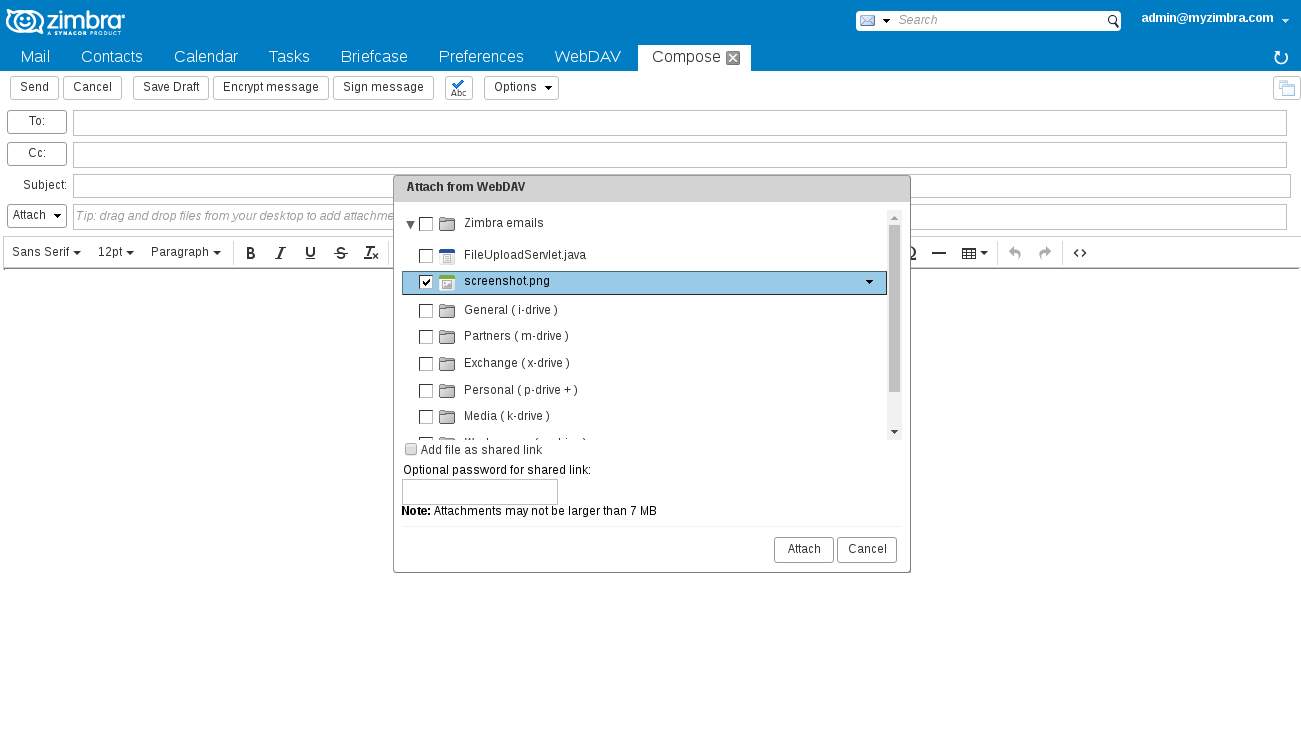
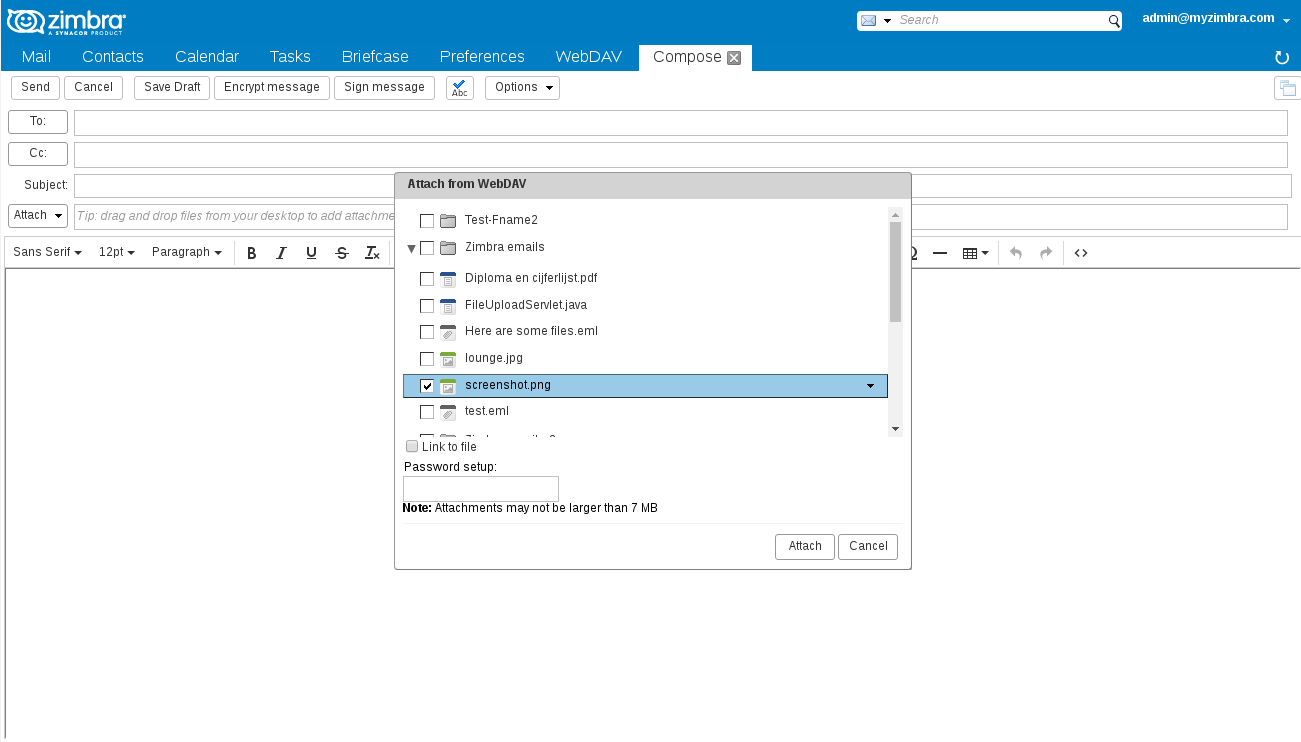
update help files

diff --git a/zimlet/help/index.html b/zimlet/help/index.html
@@ -79,7 +79,7 @@ Instead of sending files as attachments, you can also share file by means of a p
 
 Click the arrow next to <i>Attach</i>.<br>
 <br><img src="attach-menu.png" alt=""><br>
-<br>Check the option <i>Add file as shared link</i>. You can also protect the shared link by typing a password in the <i>Optional password for shared link</i> field.<br>
+<br>Check the option <i>Link to file</i>. You can also protect the shared link by typing a password in the <i>Password setup</i> field.<br>
 <br><img src="share-as-link-dialog.png" alt=""><br>
 <br>You can select files by checking them, also you can open folders by clicking on the blue folder icons. Click <i>Attach</i> when done. The selected files are displayed as links in the email body.<br>
 <br><img src="share-as-link-result.png" alt=""><br>
